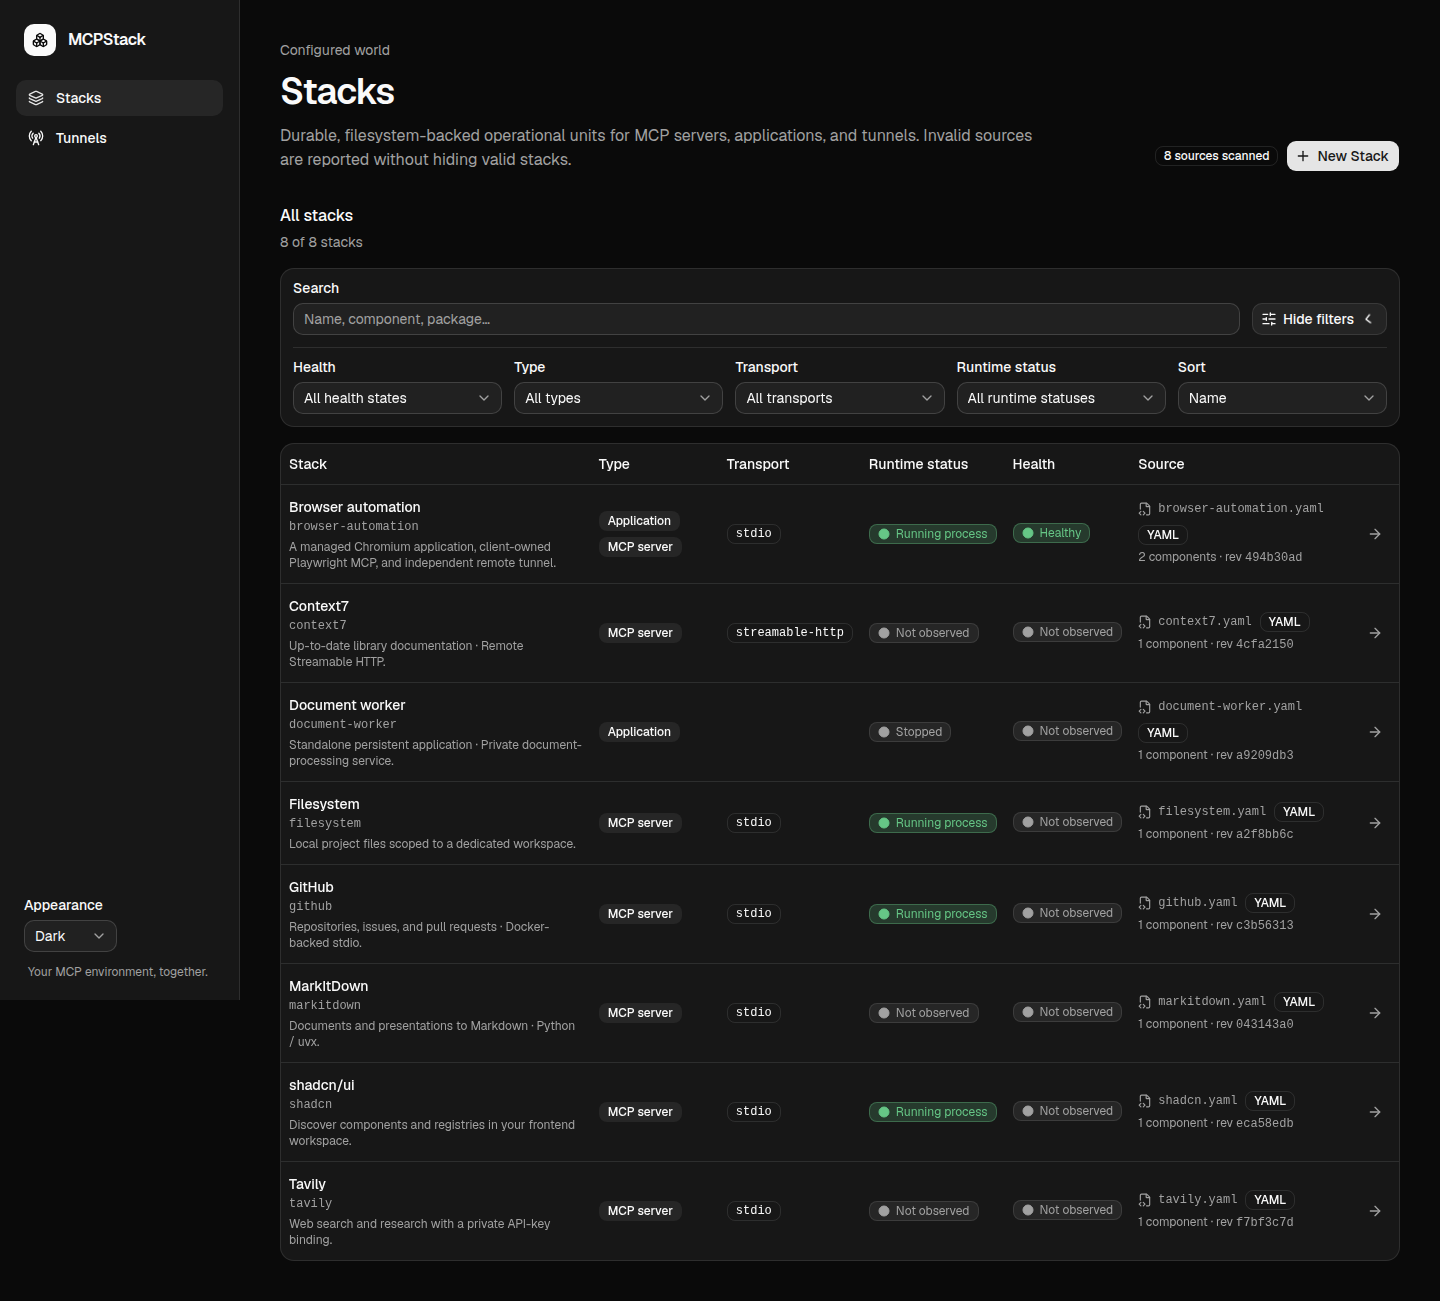
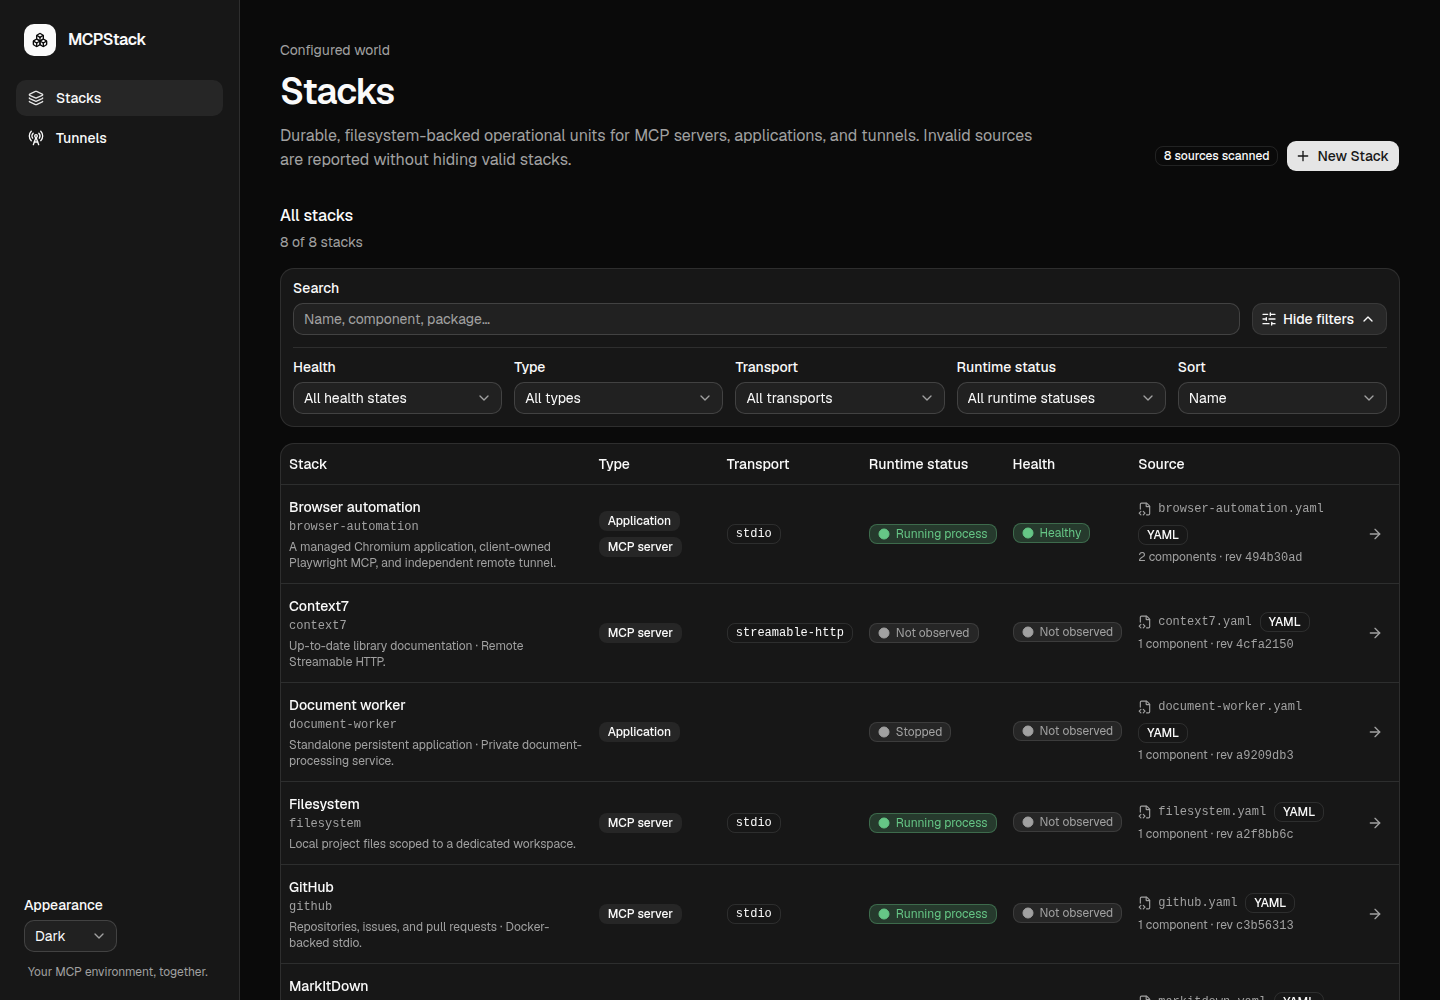
docs: use consistent desktop screenshot viewports

diff --git a/docs/screenshots/README.md b/docs/screenshots/README.md
@@ -11,8 +11,9 @@ they do not call systemd. Health examples do not perform network probes.
 
 ## Desktop
 
-Captured with a **1440 × 1000** viewport. Collection and relationship images
-include the full page; secret bindings are an element capture.
+Desktop screen captures use a consistent **1440 × 1000** viewport, not a
+full-page export, so the sidebar fills the image height. Secret bindings are
+an intentional element capture.
 
 <details>
 <summary>View desktop screenshots</summary>
